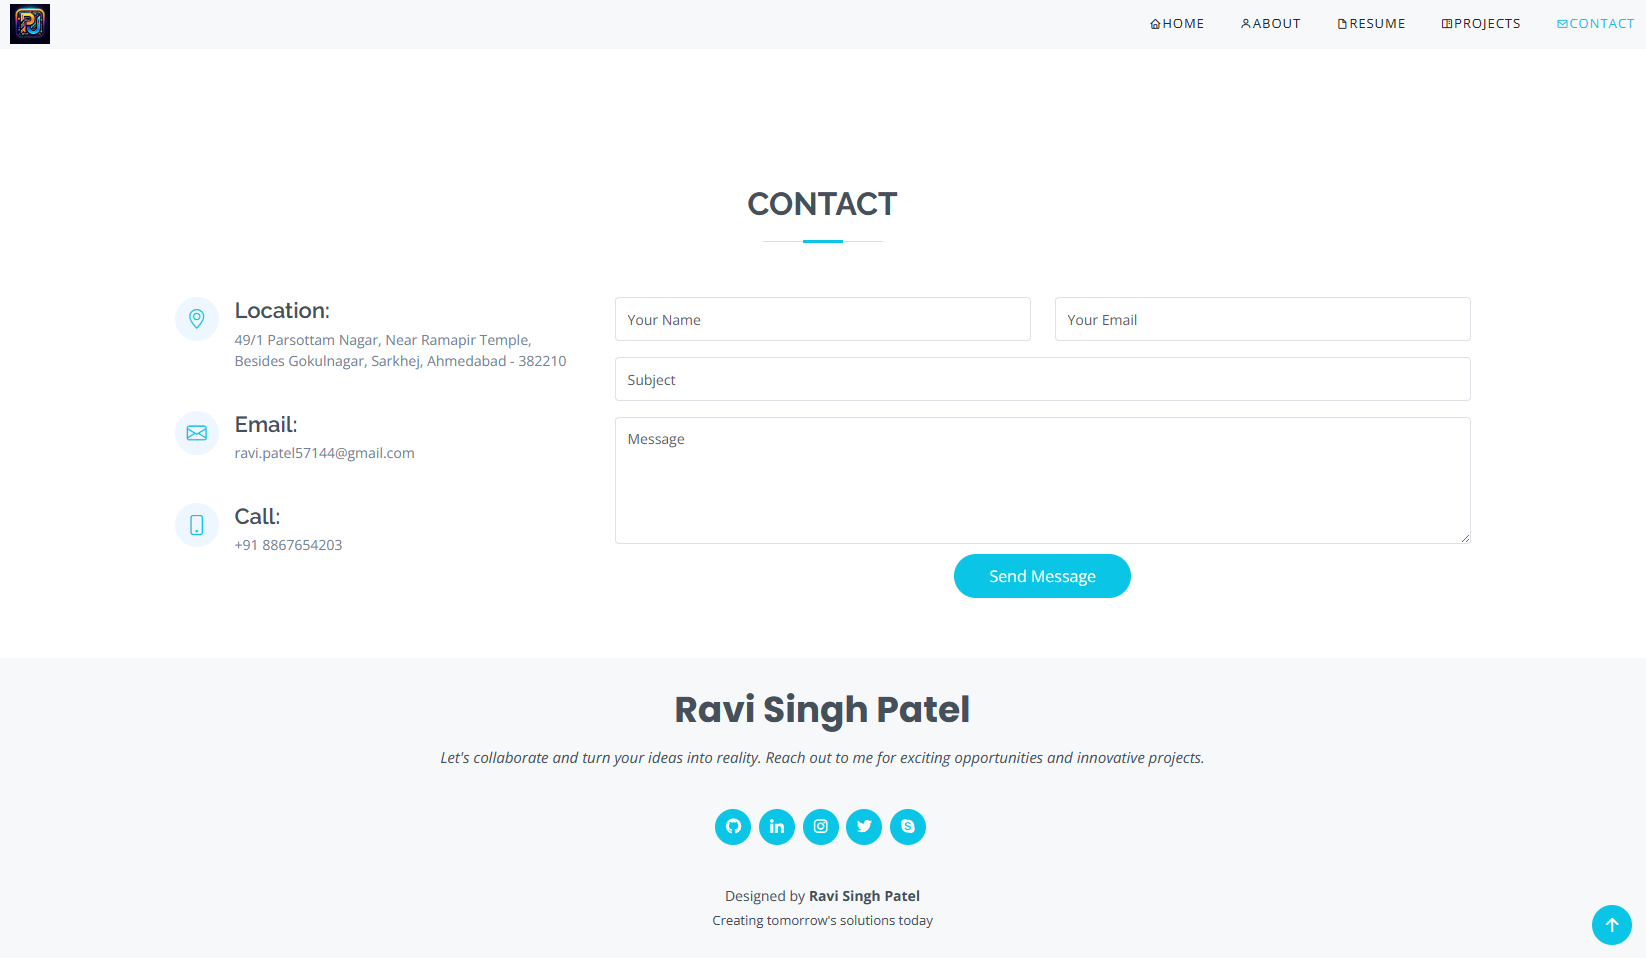
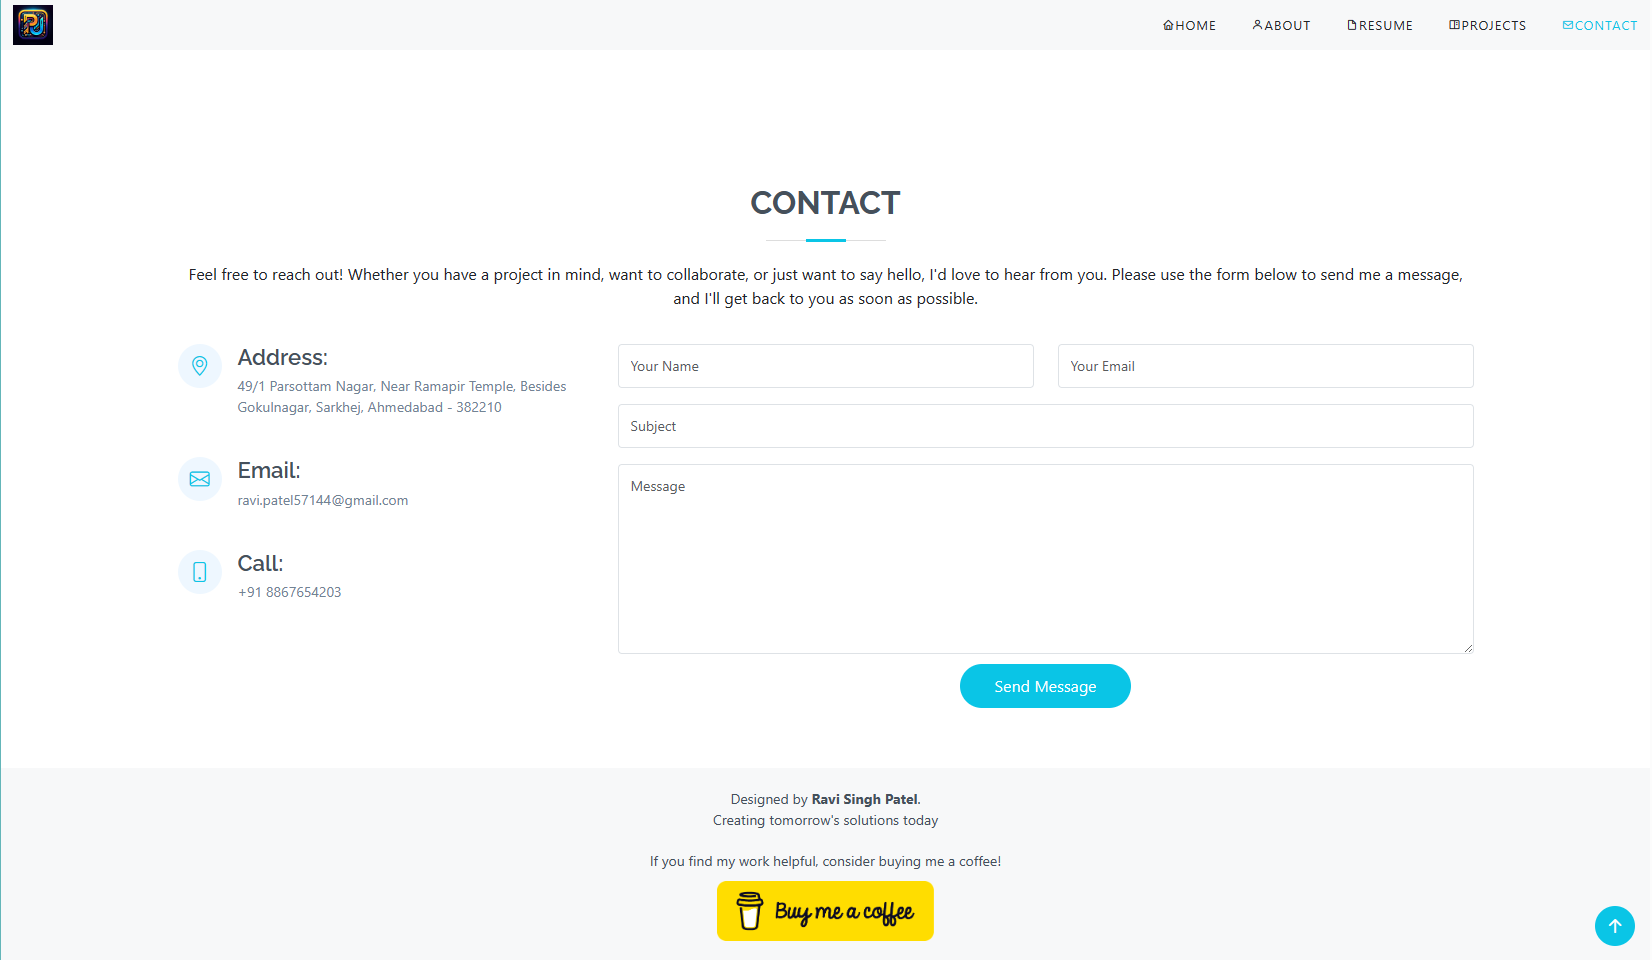
data-aos added for right/left, buy me a coffee button added

diff --git a/HTML/PortFolio/index.html b/HTML/PortFolio/index.html
@@ -89,10 +89,10 @@
         </div>
 
         <div class="row">
-          <div class="col-lg-4">
+          <div class="col-lg-4" data-aos="fade-right">
             <img src="assets/img/profile-img.jpg" class="img-fluid" alt="">
           </div>
-          <div class="col-lg-8 pt-4 pt-lg-0 content">
+          <div class="col-lg-8 pt-4 pt-lg-0 content" data-aos="fade-left">
             <h3>Full Stack Developer</h3>
             <p class="fst-italic">
               I am committed to delivering top-notch solutions that not only meet but exceed expectations, contributing
@@ -145,7 +145,7 @@
 
         <div class="row skills-content">
 
-          <div class="col-lg-6">
+          <div class="col-lg-6" data-aos="fade-right">
 
             <div class="progress">
               <span class="skill">Python <i class="val">80%</i></span>
@@ -197,7 +197,7 @@
 
           </div>
 
-          <div class="col-lg-6">
+          <div class="col-lg-6" data-aos="fade-left">
 
             <div class="progress">
               <span class="skill">Cpanel <i class="val">80%</i></span>
@@ -265,7 +265,7 @@
         </div>
 
         <div class="row">
-          <div class="col-lg-6">
+          <div class="col-lg-6" data-aos="fade-right">
             <h3 class="resume-title">Sumary</h3>
             <div class="resume-item pb-0">
               <h4>Ravi Singh Patel</h4>
@@ -303,7 +303,7 @@
               <p>81% Percentage</p>
             </div>
           </div>
-          <div class="col-lg-6">
+          <div class="col-lg-6" data-aos="fade-left">
             <h3 class="resume-title">Work Experience</h3>
             <div class="resume-item">
               <h4>Customer Relationship Manager (Part Time)</h4>
@@ -358,10 +358,10 @@
         <div class="projects-item">
 
           <div class="projects-content">
-            <div class="projects-img-container">
+            <div class="projects-img-container" data-aos="fade-right">
               <img src="assets/img/ifleetify.jpg" alt="Software Screenshot" class="projects-img" loading="lazy" />
             </div>
-            <div class="projects-info">
+            <div class="projects-info" data-aos="fade-left">
               <h3 class="project-title">iFleetify</h3>
               <p>
                 iFleetify is a comprehensive Fleet Management System designed to efficiently manage transportation
@@ -380,10 +380,10 @@
           </div>
 
           <div class="projects-content">
-            <div class="projects-img-container">
+            <div class="projects-img-container" data-aos="fade-right">
               <img src="assets/img/medclub.jpg" alt="Software Screenshot" class="projects-img" loading="lazy" />
             </div>
-            <div class="projects-info">
+            <div class="projects-info" data-aos="fade-left">
               <h3 class="project-title">MedClub</h3>
               <p> This project allows users to donate unused medicines to NGOs. Admin oversees the process, NGOs request
                 appointments and manage stock, while Members donate medicines and track their transactions. The system
@@ -398,10 +398,10 @@
           </div>
 
           <div class="projects-content">
-            <div class="projects-img-container">
+            <div class="projects-img-container" data-aos="fade-right">
               <img src="assets/img/lms.jpg" alt="Software Screenshot" class="projects-img" loading="lazy" />
             </div>
-            <div class="projects-info">
+            <div class="projects-info" data-aos="fade-left">
               <h3 class="project-title">Logistic Management System</h3>
               <p> The Logistic Management System is a web app for managing Goods/Cargo Transport. It tracks shipments,
                 loading, and unloading, aligning with international supply chain standards. Accessible through any web
@@ -416,10 +416,10 @@
           </div>
 
           <div class="projects-content">
-            <div class="projects-img-container">
+            <div class="projects-img-container" data-aos="fade-right">
               <img src="assets/img/mahisagar.jpg" alt="Software Screenshot" class="projects-img" loading="lazy" />
             </div>
-            <div class="projects-info">
+            <div class="projects-info" data-aos="fade-left">
               <h3 class="project-title">Dynamic Site For Mahisagar Packers & Movers</h3>
               <p> </p>
               <ul>
@@ -432,10 +432,10 @@
           </div>
 
           <div class="projects-content">
-            <div class="projects-img-container">
+            <div class="projects-img-container" data-aos="fade-right">
               <img src="assets/img/goal.jpg" alt="Software Screenshot" class="projects-img" loading="lazy" />
             </div>
-            <div class="projects-info">
+            <div class="projects-info" data-aos="fade-left">
               <h3 class="project-title">Website For Goal Cargo Packers & Movers</h3>
               <p> </p>
               <ul>
@@ -456,11 +456,14 @@
 
         <div class="section-title">
           <h2>Contact</h2>
+          <p>Feel free to reach out! Whether you have a project in mind, want to collaborate, or just want to say hello,
+            I'd love to hear from you. Please use the form below to send me a message, and I'll get back to you as soon
+            as possible.</p>
         </div>
 
         <div class="row mt-1">
 
-          <div class="col-lg-4">
+          <div class="col-lg-4" data-aos="fade-right">
             <div class="info">
               <div class="address">
                 <i class="bi bi-geo-alt"></i>
@@ -484,7 +487,7 @@
 
           </div>
 
-          <div class="col-lg-8 mt-5 mt-lg-0">
+          <div class="col-lg-8 mt-5 mt-lg-0" data-aos="fade-left">
 
             <form action=" " method="post" role="form">
               <div class="row">
@@ -499,7 +502,7 @@
                 <input type="text" class="form-control" name="subject" id="subject" placeholder="Subject" required>
               </div>
               <div class="form-group mt-3">
-                <textarea class="form-control" name="message" rows="5" placeholder="Message" required></textarea>
+                <textarea class="form-control" name="message" rows="8" placeholder="Message" required></textarea>
               </div>
               <div class="text-center"><button type="submit">Send Message</button></div>
             </form>
@@ -517,6 +520,14 @@
     <div class="container">
       Designed by <strong><span>Ravi Singh Patel</span></strong>.
       <br> Creating tomorrow's solutions today
+
+      <div class="buymeacoffee">
+        <p>If you find my work helpful, consider buying me a coffee!</p>
+        <a href="https://www.buymeacoffee.com/ravi.patel" target="_blank"><img
+            src="https://cdn.buymeacoffee.com/buttons/v2/default-yellow.png" alt="Buy Me A Coffee"
+            style="height: 60px !important;width: 217px !important;"></a>
+      </div>
+
     </div>
   </footer>
 

diff --git a/HTML/PortFolio/assets/css/style.css b/HTML/PortFolio/assets/css/style.css
@@ -438,7 +438,6 @@ section {
   align-items: center;
   margin-right: 100px;
   margin-left: 100px;
-  text-align: justify;
 }
 
 .projects-content .project-title {
@@ -564,6 +563,15 @@ section {
   margin: 0 0 5px 0;
 }
 
+#footer .buymeacoffee {
+  margin-top: 20px;
+}
+
+#footer .buymeacoffee p {
+  margin-bottom: 10px;
+}
+
+
 
 /* Back to top */
 
@@ -579,6 +587,10 @@ section {
   height: 40px;
   border-radius: 50px;
   transition: all 0.4s;
+}
+
+.back-to-top:hover {
+  background: #077faa;
 }
 
 .back-to-top i {

diff --git a/README.md b/README.md
@@ -16,4 +16,4 @@ Started working - 16.01.2024
 | 5      | Practice5      | Form - Contact US                           | 17.01.2024   | Completed      | 17.01.2024       | [Visit](https://github.com/ravi-patel57144/Cybercom/tree/main/HTML/Practice_5)          | [Visit](https://ravi-patel57144.github.io/Cybercom/HTML/Practice_5)       |
 | 6      | Practice6      | Form - Using fieldsets & legend              | 18.01.2024   | Completed      | 18.01.2024       | [Visit](https://github.com/ravi-patel57144/Cybercom/tree/main/HTML/Practice_6)          | [Visit](https://ravi-patel57144.github.io/Cybercom/HTML/Practice_6)       |
 | 7      | Practice7      | Form - with validations & on submit fetch data on php page | 18.01.2024   | Completed  |19.01.2024| [Visit](https://github.com/ravi-patel57144/Cybercom/tree/main/HTML/Practice_7)          | [Visit](https://ravi-patel57144.github.io/Cybercom/HTML/Practice_7)       |
-| 8      | Practice8      | Personal Portfolio                          | 19.01.2024   | Not Started    | --               | [Visit](https://github.com/ravi-patel57144/Cybercom/tree/main/HTML/PortFolio)                | [Visit](https://ravi-patel57144.github.io/Cybercom/HTML/PortFolio)  |
+| 8      | Practice8      | Personal Portfolio                          | 19.01.2024   | Completed    | 19.01.2024   | [Visit](https://github.com/ravi-patel57144/Cybercom/tree/main/HTML/PortFolio)                | [Visit](https://ravi-patel57144.github.io/Cybercom/HTML/PortFolio)  |
